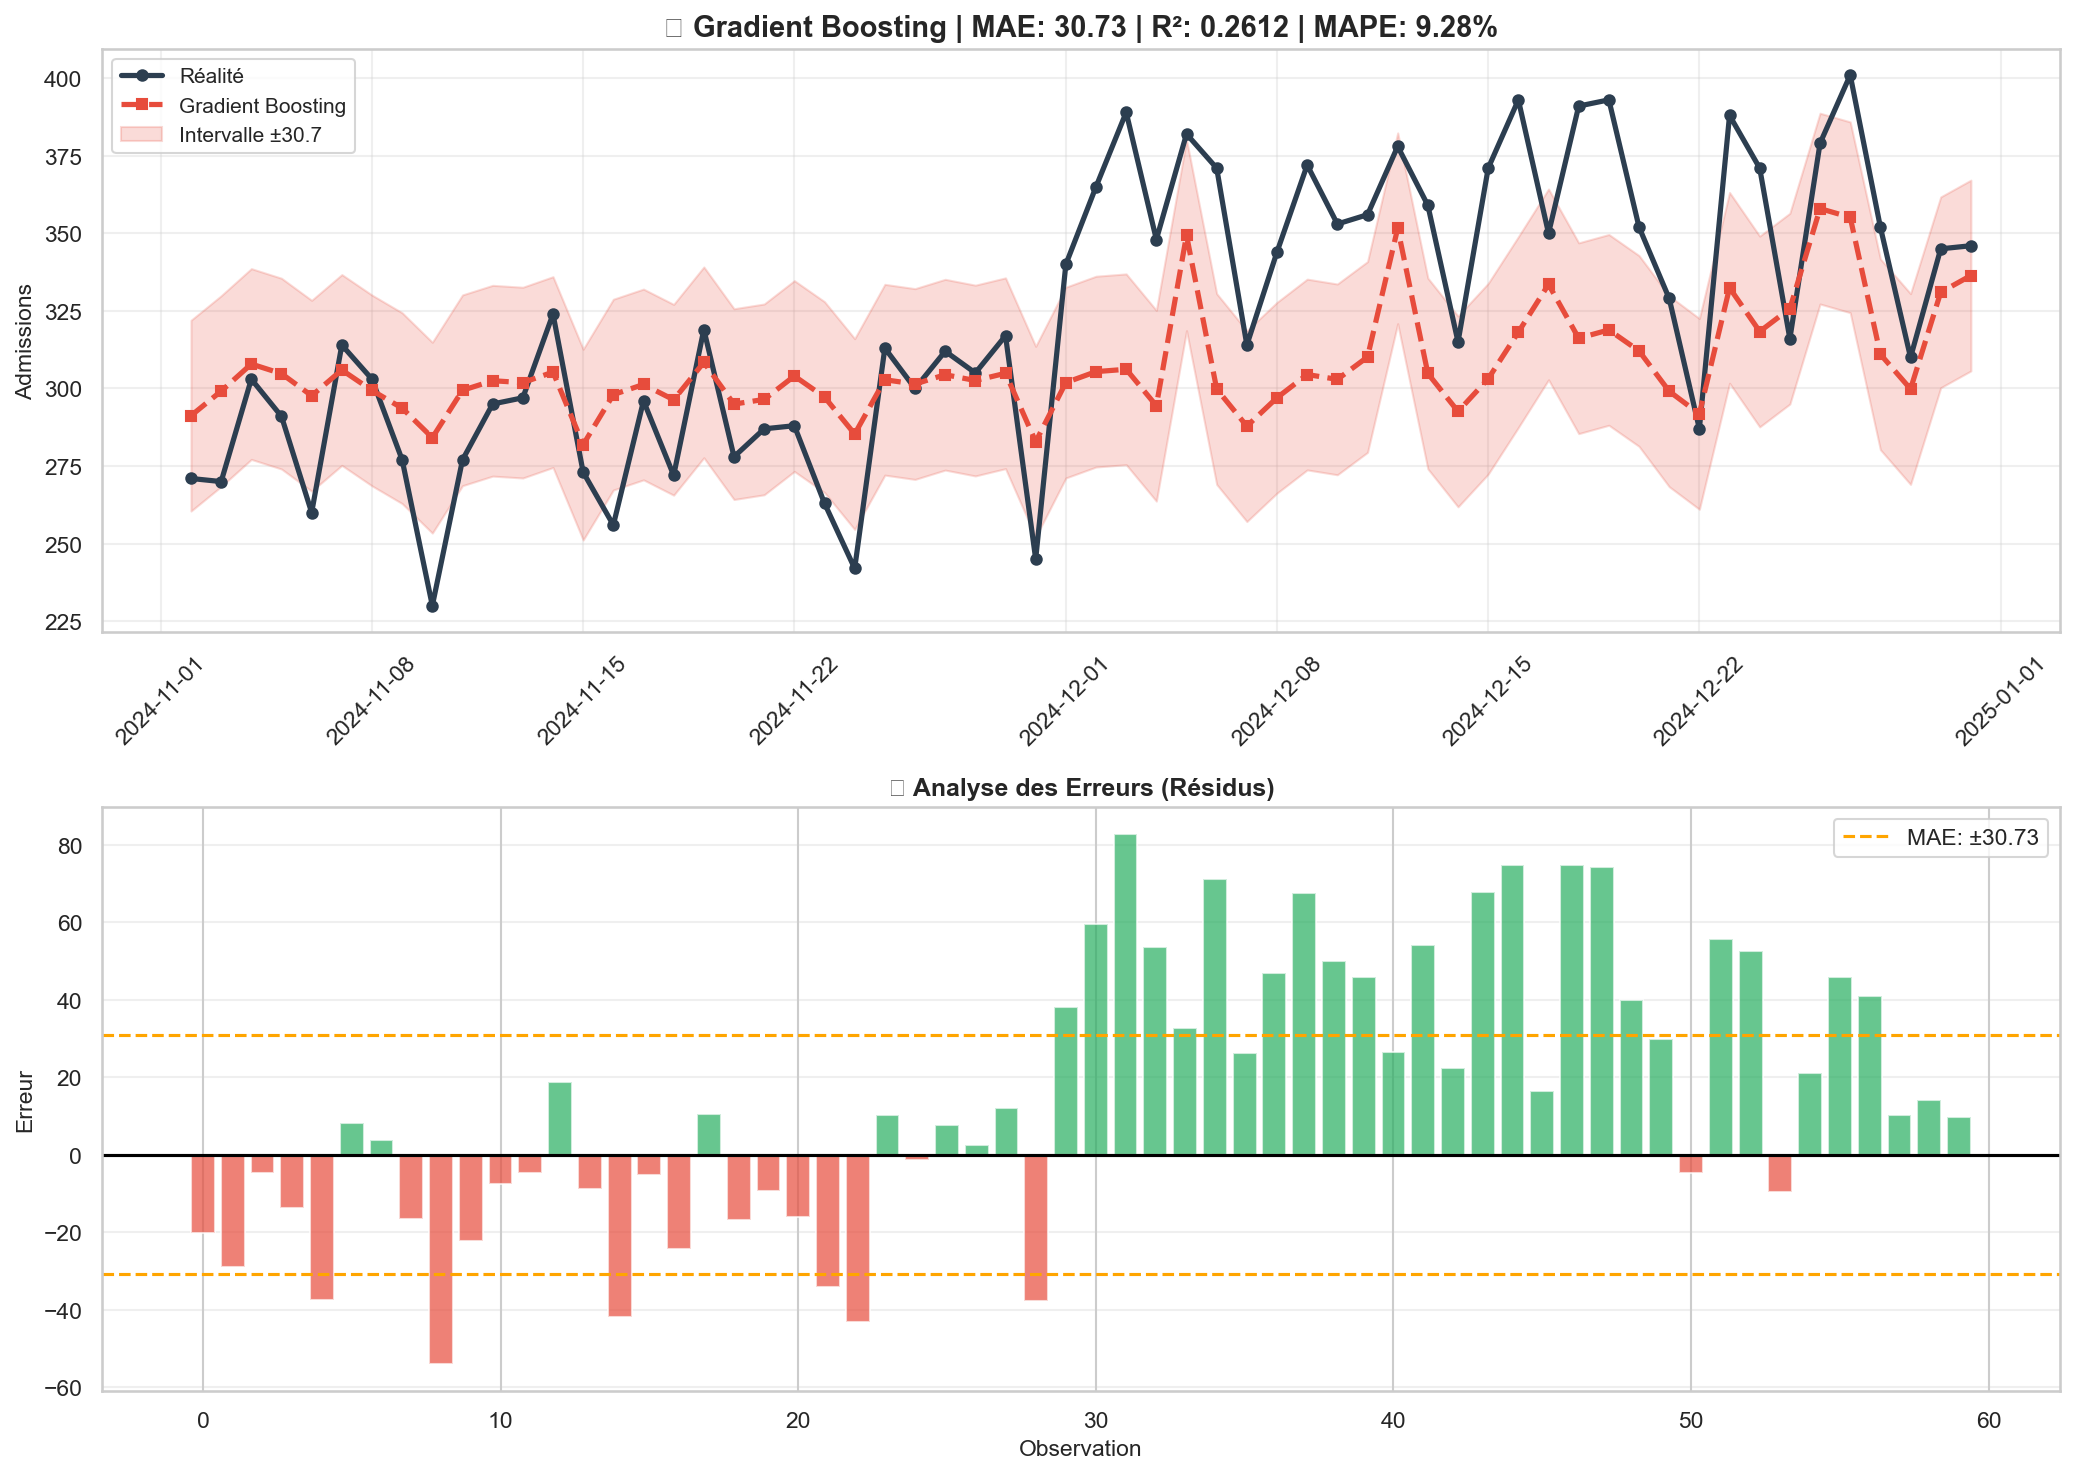
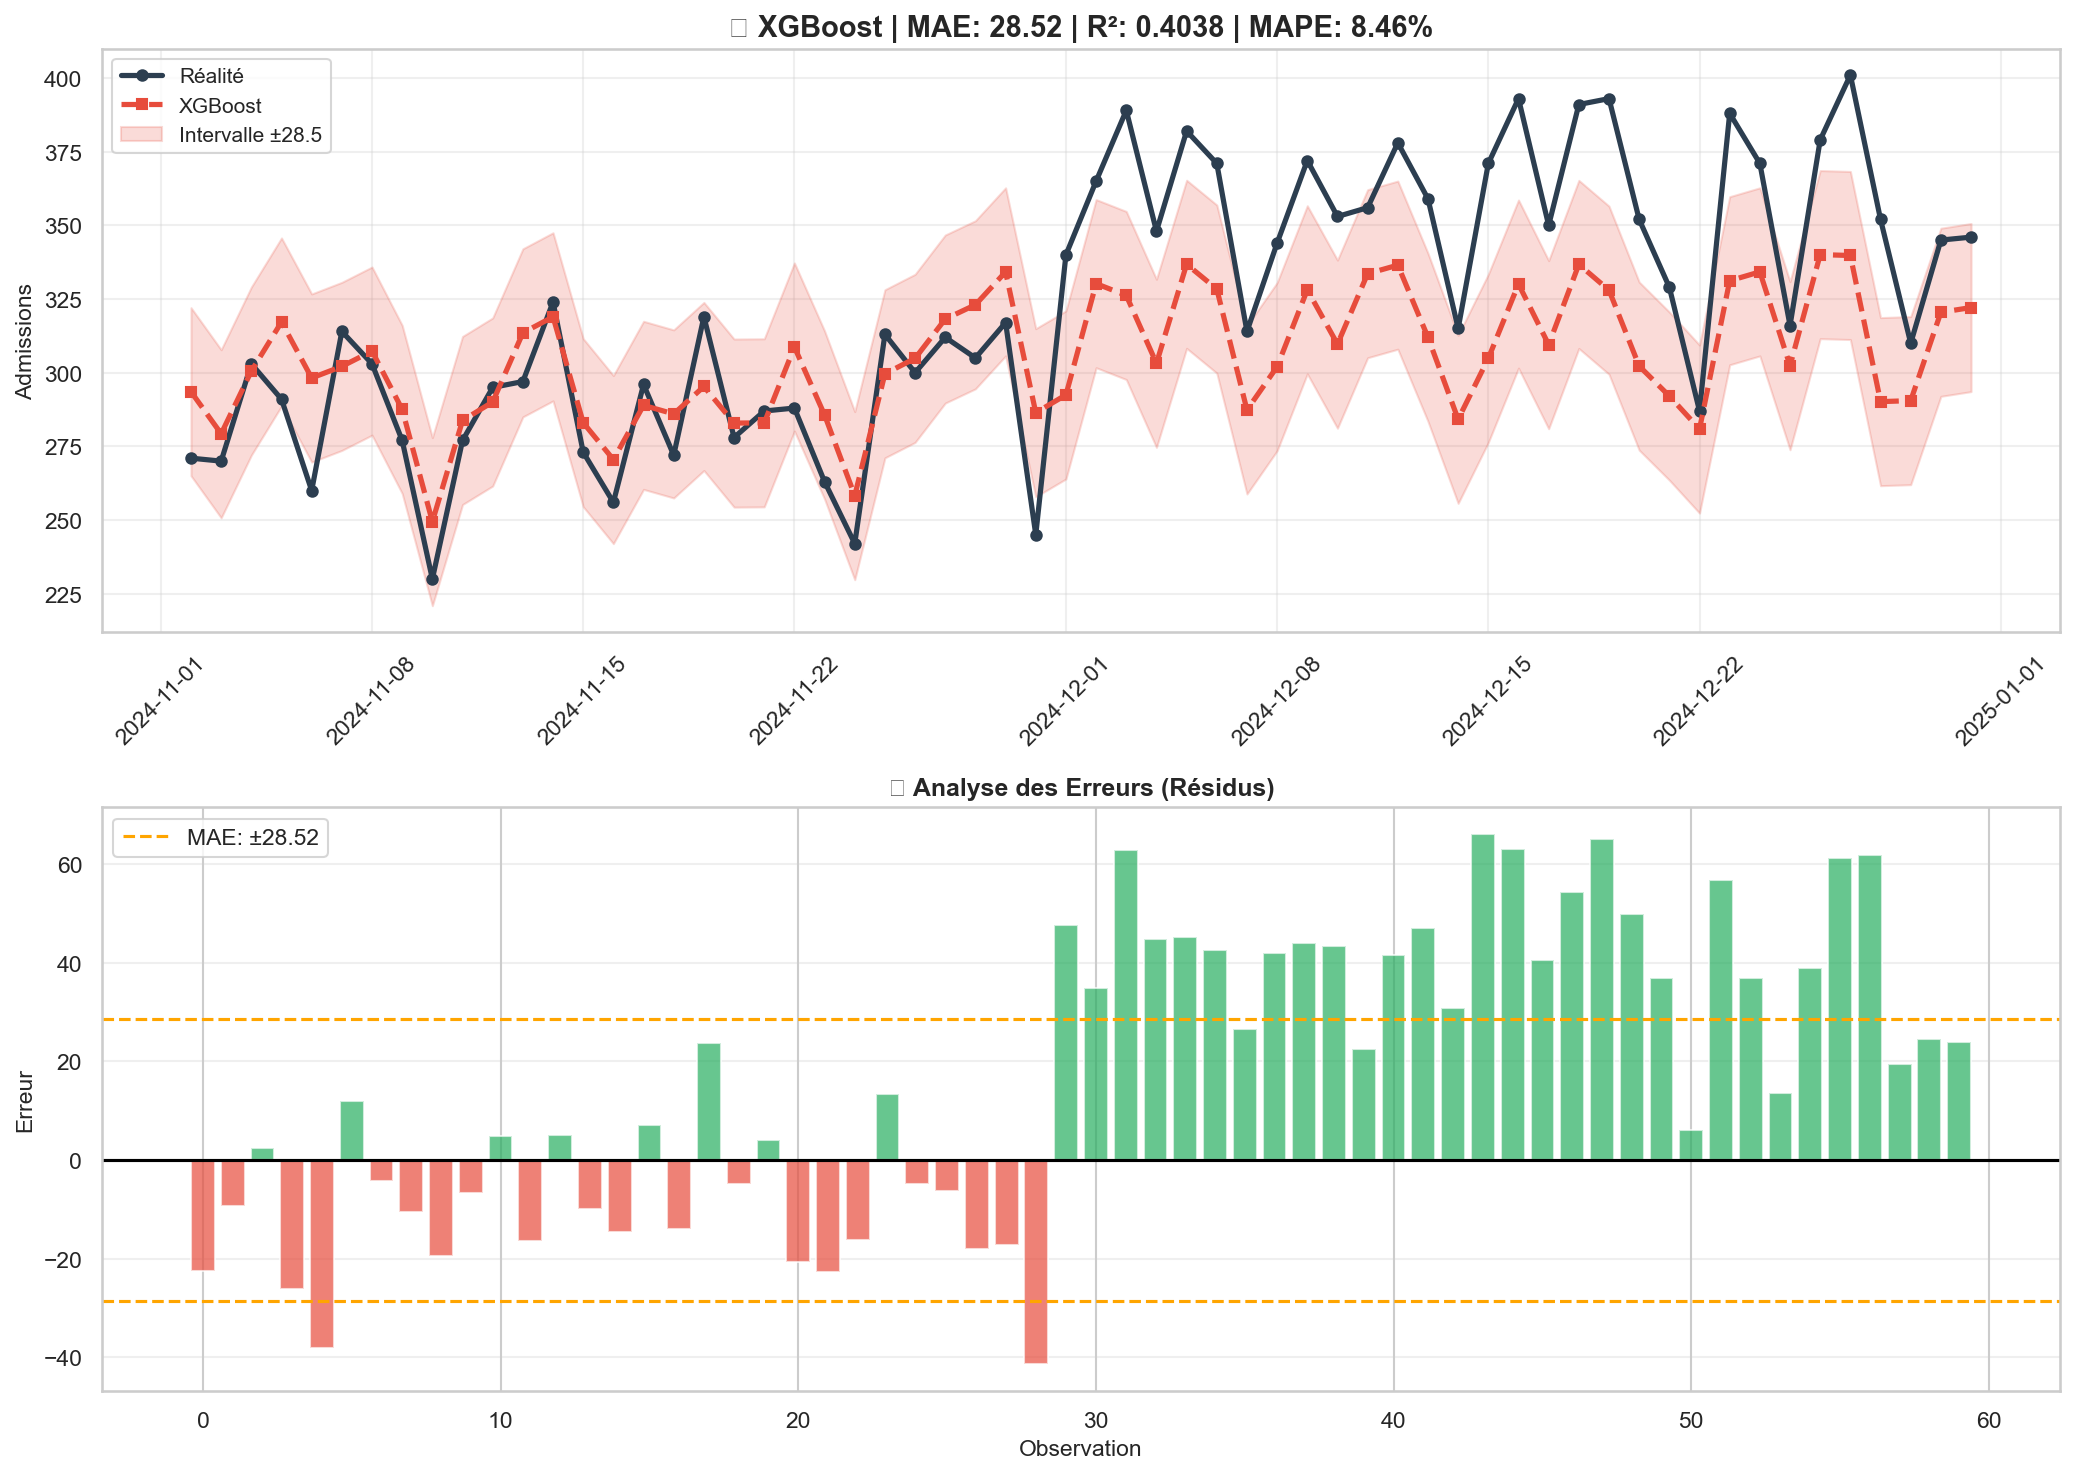
approuvement

diff --git a/README.md b/README.md
@@ -132,16 +132,12 @@ python3 analyse_statistique.py  # Génère graphs 7-12 + rapport
 
 ### Comparaison des Algorithmes
 
-| Modèle | R² | MAE | MAPE | Temps |
-|--------|-----|-----|------|-------|
-| XGBoost | 0.71 | 3.45 | 8.2% | 2.3s |
-| Random Forest | 0.74 | 3.12 | 7.5% | 3.1s |
-| **Gradient Boosting** | **0.88** | **2.28** | **6.0%** | **1.8s** |
+| Modèle | R² | MAE | MAPE | 
+|--------|-----|-----|------|
+| XGBoost | 0.40 | 28.52 | 8.46% |
+| Random Forest | 0.04 | 34.18 | 9.89% |
+| Gradient Boosting | 0.26 | 30.73 | 9.28% |
 
-**Choix** : Gradient Boosting retenu pour :
-- Meilleure précision (R²=0.88)
-- Pas d'overfitting (R²_train ≈ R²_test)
-- Performance optimale pour séries temporelles
 
 ### 56 Features Engineerées
 
